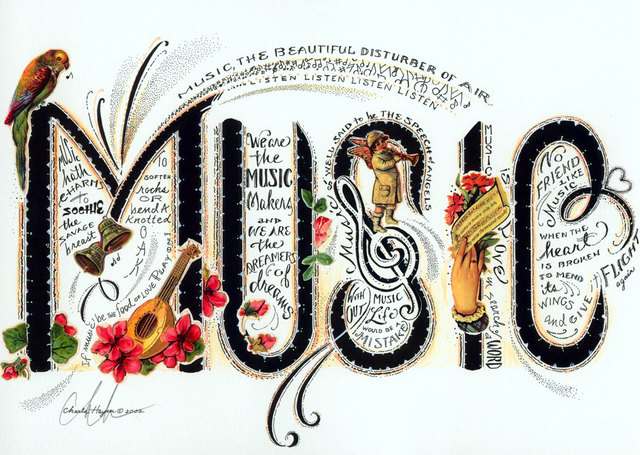
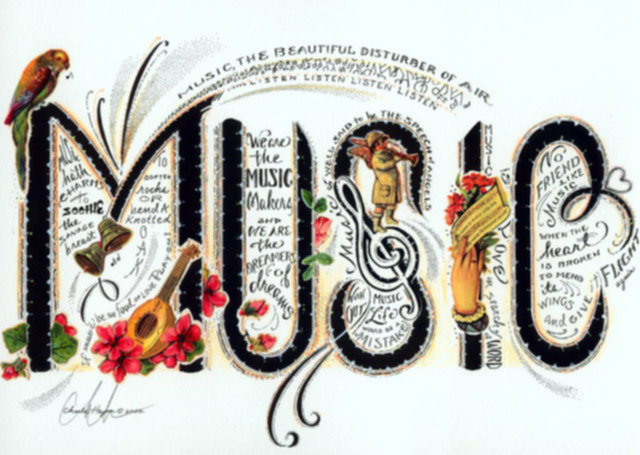
Slightly improve image compression. Fix small bug in cf invalidations

Changed region(s): [[0.0, 0.0923, 1.0, 0.9846], [0.0938, 0.8923, 0.2188, 0.9231], [0.0625, 0.8615, 0.0938, 0.8923]]

diff --git a/plugins/red_dragonfly.rb b/plugins/red_dragonfly.rb
@@ -118,9 +118,15 @@ class RedDragonfly
 
 			fname = get_filename(file)
 
-			compress_cmd = "convert #{fname} -resize #{$img_options[:max_width]}x#{$img_options[:max_height]}\\>" + 
-		  					" -compress #{$img_options[:compress_type]} -quality #{$img_options[:quality]}" + 
-		  					" #{get_raw_filename(fname) + '.' + $img_options[:output_ext]}"
+			compress_cmd = 
+								"convert -strip -interlace Plane " + 
+								# uncomment to enable gaussian blur (smaller files but blurry)
+								#"-gaussian-blur 0.01 " +
+								"#{fname} -resize #{$img_options[:max_width]}x#{$img_options[:max_height]}\\> " + 
+		  					"-compress #{$img_options[:compress_type]} -quality #{$img_options[:quality]} " + 
+		  					"#{get_raw_filename(fname) + '.' + $img_options[:output_ext]}"
+			
+			puts compress_cmd
 
 		  # invoke system ImageMagick
 		  system(compress_cmd)

diff --git a/plugins/aws_deploy_tools.rb b/plugins/aws_deploy_tools.rb
@@ -81,6 +81,8 @@ class AWSDeployTools
     obj.write(file, options)
 
     @dirty_keys << s3_key
+    # also add the dir. i.e. for archive/index.html we should also invalidate archive/
+    @dirty_keys << s3_key.chomp(s3_key.split("/").last)
 	  
 	end
 
